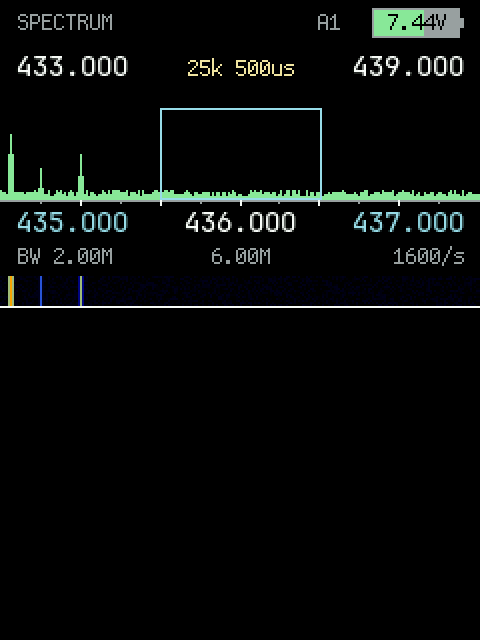
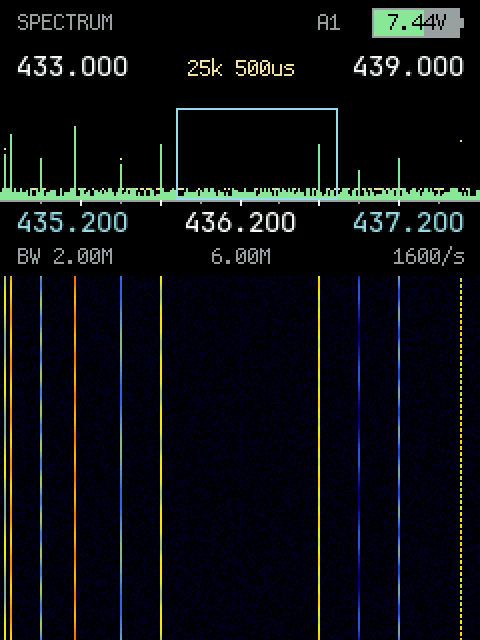
Превью: синтетический эфир и кадры анализатора в палитрах; README: обзор фич

diff --git a/tools/preview/host_hw.cpp b/tools/preview/host_hw.cpp
@@ -96,19 +96,143 @@ uint16_t host_display_px(int x, int y) {
 static uint32_t g_tuneF = 14550000;
 static uint32_t g_siF = 958000;
 static bool g_sql;
-static uint32_t g_noiseSeed = 12345;
-static uint32_t rnd() { g_noiseSeed = g_noiseSeed * 1664525u + 1013904223u; return g_noiseSeed >> 8; }
-/* «эфир»: шумовой пол ~ -105 дБм + несколько сигналов (ед. 10 Гц) */
+
+/* «Живой эфир»: шумовой пол с медленным наклоном и «травой» плюс сетка
+ * станций — вещание, авиация, LPD/PMR, репитеры, APRS/DMR-пачки и спуры.
+ * Частоты и ширины — в единицах 10 Гц (как rxF), ширина — полуширина.
+ *   0 — узкополосная ЧМ/цифра: плоская вершина, параболический спад;
+ *   1 — широковещательная ЧМ / КВ АМ: мягкие линейные скаты;
+ *   2 — пакетная: мигает слотами, как DMR/APRS. */
+enum { FK_NARROW, FK_WIDE, FK_BURST };
+struct FakeSig { uint32_t f; uint16_t w; int8_t dbm; uint8_t kind; };
+#define HZ10(hz) ((uint32_t)((hz) / 10))
+
+static const FakeSig SIG[] = {
+    /* ДВ/СВ, кГц */
+    {HZ10(153000), 500, -72, FK_NARROW},  {HZ10(171000), 500, -80, FK_NARROW},
+    {HZ10(198000), 500, -78, FK_NARROW},  {HZ10(225000), 500, -74, FK_NARROW},
+    {HZ10(252000), 500, -82, FK_NARROW},  {HZ10(531000), 500, -70, FK_WIDE},
+    {HZ10(594000), 500, -66, FK_WIDE},    {HZ10(639000), 500, -72, FK_WIDE},
+    {HZ10(693000), 500, -68, FK_WIDE},    {HZ10(747000), 500, -75, FK_WIDE},
+    {HZ10(828000), 500, -64, FK_WIDE},    {HZ10(873000), 500, -78, FK_WIDE},
+    {HZ10(936000), 500, -70, FK_WIDE},    {HZ10(999000), 500, -73, FK_WIDE},
+    {HZ10(1071000), 500, -76, FK_WIDE},   {HZ10(1152000), 500, -68, FK_WIDE},
+    {HZ10(1251000), 500, -72, FK_WIDE},   {HZ10(1359000), 500, -80, FK_WIDE},
+    {HZ10(1431000), 500, -74, FK_WIDE},   {HZ10(1521000), 500, -78, FK_WIDE},
+    {HZ10(1602000), 500, -71, FK_WIDE},
+    /* КВ, кГц: 90m..11m */
+    {HZ10(3200000), 500, -78, FK_WIDE},   {HZ10(3950000), 500, -74, FK_WIDE},
+    {HZ10(4885000), 500, -80, FK_WIDE},   {HZ10(5900000), 500, -66, FK_WIDE},
+    {HZ10(5950000), 500, -72, FK_WIDE},   {HZ10(6000000), 500, -60, FK_WIDE},
+    {HZ10(6070000), 500, -70, FK_WIDE},   {HZ10(6110000), 500, -75, FK_WIDE},
+    {HZ10(6155000), 500, -68, FK_WIDE},   {HZ10(6180000), 500, -77, FK_WIDE},
+    {HZ10(7200000), 500, -62, FK_WIDE},   {HZ10(7230000), 500, -74, FK_WIDE},
+    {HZ10(7280000), 500, -68, FK_WIDE},   {HZ10(7300000), 500, -76, FK_WIDE},
+    {HZ10(7350000), 500, -72, FK_WIDE},   {HZ10(7415000), 500, -79, FK_WIDE},
+    {HZ10(9420000), 500, -64, FK_WIDE},   {HZ10(9500000), 500, -70, FK_WIDE},
+    {HZ10(9580000), 500, -58, FK_WIDE},   {HZ10(9650000), 500, -74, FK_WIDE},
+    {HZ10(9720000), 500, -68, FK_WIDE},   {HZ10(9835000), 500, -72, FK_WIDE},
+    {HZ10(11600000), 500, -66, FK_WIDE},  {HZ10(11730000), 500, -60, FK_WIDE},
+    {HZ10(11810000), 500, -74, FK_WIDE},  {HZ10(11945000), 500, -70, FK_WIDE},
+    {HZ10(12050000), 500, -76, FK_WIDE},  {HZ10(13600000), 500, -65, FK_WIDE},
+    {HZ10(13750000), 500, -73, FK_WIDE},  {HZ10(15100000), 500, -62, FK_WIDE},
+    {HZ10(15300000), 500, -70, FK_WIDE},  {HZ10(15500000), 500, -74, FK_WIDE},
+    {HZ10(15700000), 500, -79, FK_WIDE},  {HZ10(17480000), 500, -68, FK_WIDE},
+    {HZ10(17650000), 500, -72, FK_WIDE},  {HZ10(17800000), 500, -66, FK_WIDE},
+    {HZ10(21450000), 500, -70, FK_WIDE},  {HZ10(21550000), 500, -74, FK_WIDE},
+    {HZ10(21700000), 500, -77, FK_WIDE},  {HZ10(25600000), 500, -72, FK_WIDE},
+    {HZ10(25800000), 500, -78, FK_WIDE},
+    /* CB 27 МГц */
+    {HZ10(26965000), 450, -72, FK_NARROW}, {HZ10(27135000), 450, -80, FK_NARROW},
+    {HZ10(27185000), 450, -68, FK_NARROW}, {HZ10(27245000), 450, -85, FK_NARROW},
+    {HZ10(27405000), 450, -78, FK_NARROW},
+    /* OIRT 64–74 и FM 87.5–108 МГц */
+    {HZ10(65900000), 9000, -62, FK_WIDE},  {HZ10(66800000), 9000, -74, FK_WIDE},
+    {HZ10(68000000), 9000, -58, FK_WIDE},  {HZ10(70100000), 9000, -79, FK_WIDE},
+    {HZ10(71300000), 9000, -68, FK_WIDE},  {HZ10(73400000), 9000, -82, FK_WIDE},
+    {HZ10(87500000), 9000, -57, FK_WIDE},  {HZ10(88600000), 9000, -69, FK_WIDE},
+    {HZ10(90300000), 9000, -61, FK_WIDE},  {HZ10(92400000), 9000, -76, FK_WIDE},
+    {HZ10(94500000), 9000, -66, FK_WIDE},  {HZ10(96800000), 9000, -80, FK_WIDE},
+    {HZ10(98000000), 9000, -55, FK_WIDE},  {HZ10(100700000), 9000, -72, FK_WIDE},
+    {HZ10(102400000), 9000, -64, FK_WIDE}, {HZ10(104600000), 9000, -83, FK_WIDE},
+    {HZ10(106800000), 9000, -70, FK_WIDE}, {HZ10(107900000), 9000, -78, FK_WIDE},
+    /* авиация 118–136 МГц, АМ */
+    {HZ10(118100000), 600, -80, FK_NARROW}, {HZ10(118300000), 600, -86, FK_NARROW},
+    {HZ10(119900000), 600, -75, FK_NARROW}, {HZ10(120500000), 600, -82, FK_NARROW},
+    {HZ10(121500000), 600, -70, FK_NARROW}, {HZ10(123450000), 600, -84, FK_NARROW},
+    {HZ10(124700000), 600, -78, FK_NARROW}, {HZ10(125100000), 600, -73, FK_NARROW},
+    {HZ10(126200000), 600, -85, FK_NARROW}, {HZ10(127600000), 600, -79, FK_NARROW},
+    {HZ10(128300000), 600, -74, FK_NARROW}, {HZ10(129900000), 600, -83, FK_NARROW},
+    {HZ10(131500000), 600, -77, FK_NARROW}, {HZ10(132000000), 600, -86, FK_NARROW},
+    {HZ10(133250000), 600, -80, FK_NARROW}, {HZ10(134500000), 600, -75, FK_NARROW},
+    /* 2 м */
+    {HZ10(144800000), 700, -82, FK_BURST},  {HZ10(145050000), 700, -88, FK_NARROW},
+    {HZ10(145175000), 700, -76, FK_BURST},  {HZ10(145300000), 700, -84, FK_NARROW},
+    {HZ10(145375000), 700, -90, FK_NARROW}, {HZ10(145500000), 700, -62, FK_NARROW},
+    {HZ10(145600000), 700, -70, FK_NARROW}, {HZ10(145725000), 700, -79, FK_NARROW},
+    {HZ10(145750000), 700, -85, FK_NARROW}, {HZ10(145775000), 700, -80, FK_NARROW},
+    {HZ10(146000000), 700, -92, FK_NARROW}, {HZ10(147500000), 700, -88, FK_NARROW},
+    /* 70 см: репитеры, DMR, ISM 433.92 (разная плотность и уровень) */
+    {HZ10(430025000), 700, -92, FK_NARROW}, {HZ10(432000000), 700, -88, FK_NARROW},
+    {HZ10(433050000), 700, -77, FK_NARROW}, {HZ10(433125000), 700, -63, FK_NARROW},
+    {HZ10(433500000), 700, -82, FK_NARROW}, {HZ10(433920000), 1200, -59, FK_NARROW},
+    {HZ10(434500000), 700, -84, FK_NARROW}, {HZ10(435000000), 1500, -74, FK_NARROW},
+    {HZ10(437000000), 700, -71, FK_NARROW}, {HZ10(437500000), 300, -93, FK_NARROW},
+    {HZ10(438000000), 700, -86, FK_NARROW}, {HZ10(438775000), 1300, -67, FK_BURST},
+    {HZ10(439000000), 700, -83, FK_NARROW}, {HZ10(439500000), 700, -91, FK_NARROW},
+    /* PMR/LPD 446 и деловые 450–470 МГц */
+    {HZ10(446006250), 700, -78, FK_NARROW}, {HZ10(446018750), 700, -84, FK_NARROW},
+    {HZ10(446031250), 700, -80, FK_BURST},  {HZ10(446043750), 700, -88, FK_NARROW},
+    {HZ10(446056250), 700, -76, FK_NARROW}, {HZ10(446068750), 700, -90, FK_NARROW},
+    {HZ10(446081250), 700, -82, FK_NARROW}, {HZ10(446093750), 700, -86, FK_NARROW},
+    {HZ10(450050000), 700, -80, FK_NARROW}, {HZ10(452500000), 700, -85, FK_NARROW},
+    {HZ10(456700000), 700, -78, FK_NARROW}, {HZ10(460100000), 700, -83, FK_NARROW},
+    {HZ10(462562500), 700, -70, FK_NARROW}, {HZ10(462587500), 700, -78, FK_NARROW},
+    {HZ10(462612500), 700, -82, FK_BURST},  {HZ10(464500000), 700, -75, FK_NARROW},
+    {HZ10(466000000), 700, -88, FK_NARROW}, {HZ10(467562500), 700, -75, FK_NARROW},
+    {HZ10(467587500), 700, -84, FK_NARROW}, {HZ10(469500000), 700, -82, FK_NARROW},
+};
+
+static uint32_t h32(uint32_t x) {
+  x ^= x >> 16; x *= 0x7feb352dU; x ^= x >> 15; x *= 0x846ca68bU; x ^= x >> 16;
+  return x;
+}
+
+/* Медленное замирание: у каждой станции свой период и фаза. */
+static int fadeDb(uint32_t key, uint32_t t) {
+  uint32_t h = h32(key);
+  float w = 0.0008f + (float)((h >> 9) & 7u) * 0.00022f;
+  float ph = (float)(h & 1023u) * 0.00613f;
+  return (int)(5.0f * sinf(t * w + ph));
+}
+
 uint16_t host_signal_rssi(uint32_t f) {
-  static const struct { uint32_t f; int dbm; } SIG[] = {
-      {14550000, -62}, {14800000, -90}, {43312500, -58}, {43350000, -85},
-      {43400000, -75}, {16309300, -70}, {16200000, -88}, {17025000, -80},
-      /* вещательные КВ: 31m, 25m, 19m (ед. 10 Гц) */
-      {958000, -62}, {965000, -85}, {1173000, -68}, {1530000, -72}};
-  int dbm = -108 + (int)(rnd() % 6);
-  for (auto &s : SIG) {
-    int d = (int)(f > s.f ? f - s.f : s.f - f);
-    if (d < 4000) { int v = s.dbm - d / 140; if (v > dbm) dbm = v; }
+  uint32_t t = g_now_ms;
+  /* Шумовой пол: на КВ выше (атмосферный/городской), на УКВ ниже. */
+  int dbm = f < 3000000 ? -104 : (f < 30000000 ? -106 : -109);
+  dbm += (int)(2.0f * sinf((float)f * 0.00000027f)); /* медленный наклон */
+  dbm += (int)(h32((f * 7u) ^ (t / 37u)) & 7u) - 3;  /* «трава», ±3.5 дБ */
+
+  for (const FakeSig &s : SIG) {
+    int d = (int)f - (int)s.f;
+    if (d < 0)
+      d = -d;
+    if (d > s.w)
+      continue;
+    int v = s.dbm;
+    if (s.kind == FK_BURST) {
+      /* 5 слотов по 90 мс: станция «дышит» пачками */
+      if (((t / 90u + (h32(s.f) & 7u)) % 5u) > 1u)
+        continue;
+      v -= 4;
+    }
+    if (s.kind == FK_WIDE)
+      v -= (d * 7) / (s.w ? s.w : 1);
+    else if (s.w)
+      v -= (d * d * 8) / (s.w * s.w);
+    v += fadeDb(s.f, t);
+    if (v > dbm)
+      dbm = v;
   }
   return (uint16_t)((dbm + 160) * 2);
 }

diff --git a/tools/preview/preview.cpp b/tools/preview/preview.cpp
@@ -7,6 +7,8 @@
 #include "radio.h"
 #include "ui/graphics.h"
 #include "ui/lv_port.h"
+#include "ui/screen_layout.h"
+#include "ui/spectrum.h"
 #include <stdio.h>
 #include <string.h>
 
@@ -51,7 +53,7 @@ static void screens(const char *tag) {
   snprintf(n, sizeof(n), "%s_scanner", tag); dump(n);
   Mode_Switch(MODE_BC_SCANNER); step(4500);
   snprintf(n, sizeof(n), "%s_bc", tag); dump(n);
-  Mode_Switch(MODE_ANALYSER); step(500);
+  Mode_Switch(MODE_ANALYSER); step(6200); key(KEY_6);
   snprintf(n, sizeof(n), "%s_analyser", tag); dump(n);
   Mode_Switch(MODE_FC); step(80);
   snprintf(n, sizeof(n), "%s_fc", tag); dump(n);
@@ -74,6 +76,25 @@ int main(int argc, char **argv) {
   }
   LOOT_ToggleBlacklist(LOOT_Item(2));
   LOOT_ToggleWhitelist(LOOT_Item(4));
+  if (getenv("SP_TEST")) {
+    /* Кадры анализатора со «живым эфиром» во всех палитрах водопада.
+     * 6200 обновлений ≈ 200 проходов — водопад успевает заполниться. */
+    static const char *pn[SP_PALETTE_COUNT] = {"gqrx", "viridis", "magma",
+                                               "turbo", "gray"};
+    char n[64];
+    Mode_Switch(MODE_ANALYSER);
+    step(300);
+    for (uint8_t p = 0; p < SP_PALETTE_COUNT; p++) {
+      SP_SetPalette(p);
+      WF_Reset();
+      SP_Invalidate(UI_SPECTRUM_H);
+      step(6200);
+      key(KEY_6);
+      snprintf(n, sizeof(n), "analyser-%s", pn[p]);
+      dump(n);
+    }
+    return 0;
+  }
   if (getenv("BC_TEST")) {
     Mode_Switch(MODE_BC_SCANNER); step(4500);
     dump("bc_hold");

diff --git a/README.md b/README.md
@@ -4,6 +4,53 @@
 
 Firmware for the Radtel RT-880 (AT32F423, BK4819 ×2, SI4732). Build: `make` (requires `arm-none-eabi-gcc`), flash: `flash.py --fast`; install/recovery — `make install-image` + `flash.py --boot`.
 
+## Features
+
+- **Wide-range spectrum analyser** (VFO → long `5`): a full sweep over the
+  whole BK4819 range (15.88–1340 MHz), arbitrary start/end or centre entry,
+  zoom, still/listen marker, peak hold, waterfall with palettes,
+  `Min`/`Max`/`Auto` level window and a BK4819 register menu.
+- **Wide-range scanner** (VFO → `MENU`): arbitrary limits across the whole
+  receiver range, step, dwell, black/white lists; a candidate is an RSSI peak
+  above the calibrated noise floor confirmed by a local window, and finds go
+  to the loot list.
+- **Channel editor and 8 scanlists** (VFO → long `7`): up to 200 channels with
+  name, frequency, modulation, bandwidth, receiver, list mask and blacklist
+  flag; a 7-field form, scanning over the list, a channel pinned behind a VFO.
+- **Band plan editor** (VFO → long `8`): start/end, name, step, modulation,
+  squelch, receive correction, colour and category; the plan drives the VFO
+  step/modulation and the BAND screen.
+- **Loot list** (short `*`): up to 200 finds shared by all scanners, sort by
+  time/duration/blacklist/frequency, whitelist and blacklist marks, transfer
+  to channels; stored in flash.
+- **Seamless SI4732 retuning**: a frequency change is a single `TUNE_FREQ`
+  (FAST) command without re-powering the chip, and the resident continuous
+  patch keeps fine tuning in the chip; in AM/SSB soft mute attenuation is 0,
+  so tuning has no click or mute gap, and LSB ↔ USB is instant. Only a
+  patch-family change (AM ↔ SSB, FM ↔ AM/SSB) re-powers the chip.
+- **Fast flashing**: stage-2 bootloader at 921600, 2 KB blocks, CRC32 — a
+  normal update takes ~8.5 s (`flash.py --fast`); the 246 KB install image
+  restores stage-2, application and metadata for recovery.
+- **Three VFOs and multiwatch**: short `EXIT` cycles the VFOs, each with its
+  own receiver, modulation, step and bandwidth; BK and SI can be pinned for
+  background monitoring (channel mode included); manual receiver selection.
+- **BAND screen and broadcast SW scanner**: LW/MW, broadcast SW, FM 64–108
+  and amateur SSB with an SNR scan and station marks; a separate scanner over
+  the 120–11 m broadcast bands.
+- **BK4819 frequency counter** (VFO → long `4`): catches a transmitter carrier
+  in 0.2–1.6 s, pulls the find to VFO and to the loot list.
+- **Receive path**: S-meter as an LED bar, AFC, CTCSS/DCS/DTMF, band receive
+  correction, antenna relay A1/A2, `AUTO`/HF/VHF/UHF/800 band filters.
+- **UI**: dark/light themes (with an inverted spectrum/waterfall in the light
+  theme), waterfall palettes, keyboard lock, display and backlight off on long
+  `EXIT`.
+- **Non-volatile state**: VFOs, settings, band plan, channels and loot in the
+  W25Q32 ring with CRC32, written 2.5 s after a change and power-loss safe.
+- **UART console** at 115200 on the USB connector: diagnostics, bootloader
+  dump, reboot/jump and cold-boot profiling.
+- **CI releases**: rolling `latest` images on every push to `main`, versioned
+  tags `v*`.
+
 ## Screenshots
 
 General view (VFO) in the dark and light themes:
@@ -13,8 +60,11 @@ General view (VFO) in the dark and light themes:
 | <img src="docs/screenshots/vfo-dark.png" width="240" alt="VFO, dark theme"> | <img src="docs/screenshots/vfo-light.png" width="240" alt="VFO, light theme"> |
 
 The rest are in the sections below. Frames come from the host preview
-(`make -C tools/preview`); after every new feature add its screenshots to the
-matching section, and the general view to this header.
+(`make -C tools/preview`); its receiver is a synthetic "live air" model —
+broadcast, aviation, LMR/repeater, PMR and packet stations with fading and
+bursts over a noisy floor — so the spectrum and waterfall show realistic
+occupancy. After every new feature add its screenshots to the matching
+section, and the general view to this header.
 
 ## Scanner and loot list
 
@@ -244,6 +294,12 @@ bandwidth comes from the VFO.
 |---|---|
 | <img src="docs/screenshots/analyser-dark.png" width="200" alt="Spectrum analyser, dark theme"> | <img src="docs/screenshots/analyser-light.png" width="200" alt="Spectrum analyser, light theme"> |
 
+Waterfall palettes (dark theme; the light theme inverts the palette):
+
+| Gqrx | Viridis | Magma | Turbo | Gray |
+|---|---|---|---|---|
+| <img src="docs/screenshots/analyser-gqrx.png" width="130" alt="Gqrx palette"> | <img src="docs/screenshots/analyser-viridis.png" width="130" alt="Viridis palette"> | <img src="docs/screenshots/analyser-magma.png" width="130" alt="Magma palette"> | <img src="docs/screenshots/analyser-turbo.png" width="130" alt="Turbo palette"> | <img src="docs/screenshots/analyser-gray.png" width="130" alt="Gray palette"> |
+
 | Key | Action |
 |---|---|
 | `UP/DOWN` | cursor (frame) by 5 columns; long — shift the range |
@@ -301,7 +357,7 @@ window.
 
 - **BK4819 A** — the only BK on the antenna (18–660 and 840–1300 MHz, incl. 27 MHz, CB). All V/UHF and FM/other on 18–30 MHz goes here. CB AM (27 MHz) goes through the SI4732 by default; long `#` in VFO forces the receiver to BK and back.
 - **BK4819 B** — per the RT880 V2 schematic its LNAIN input is not connected to the antenna, and the EARO output is disconnected (C433 = NC); its RSSI is low. It is needed for transmit/repeater; while there is no transmit, **B sleeps** (as in stock: `REG_30=0`, `REG_37=0x1D00`, saving about 15–20 mA), the firmware does not select reception on B.
-- **SI4732** — everything below 18 MHz, AM/SSB up to 30 MHz and FM broadcast 64–108 MHz (I2C1, 400 kHz). The SI4732 input is `HF-ANT` (the second connector).
+- **SI4732** — everything below 18 MHz, AM/SSB up to 30 MHz and FM broadcast 64–108 MHz (I2C1, 400 kHz). The SI4732 input is `HF-ANT` (the second connector). Retuning is seamless: a frequency change is a single `TUNE_FREQ` (FAST) command with soft mute attenuation set to 0, so tuning does not click, mute or re-power the chip, and the resident continuous patch keeps fine tuning in the chip (LSB ↔ USB is instant). The continuous patch is reloaded only when the mode family changes (AM ↔ SSB, FM ↔ AM/SSB).
 
 ## UART on the USB connector
 
